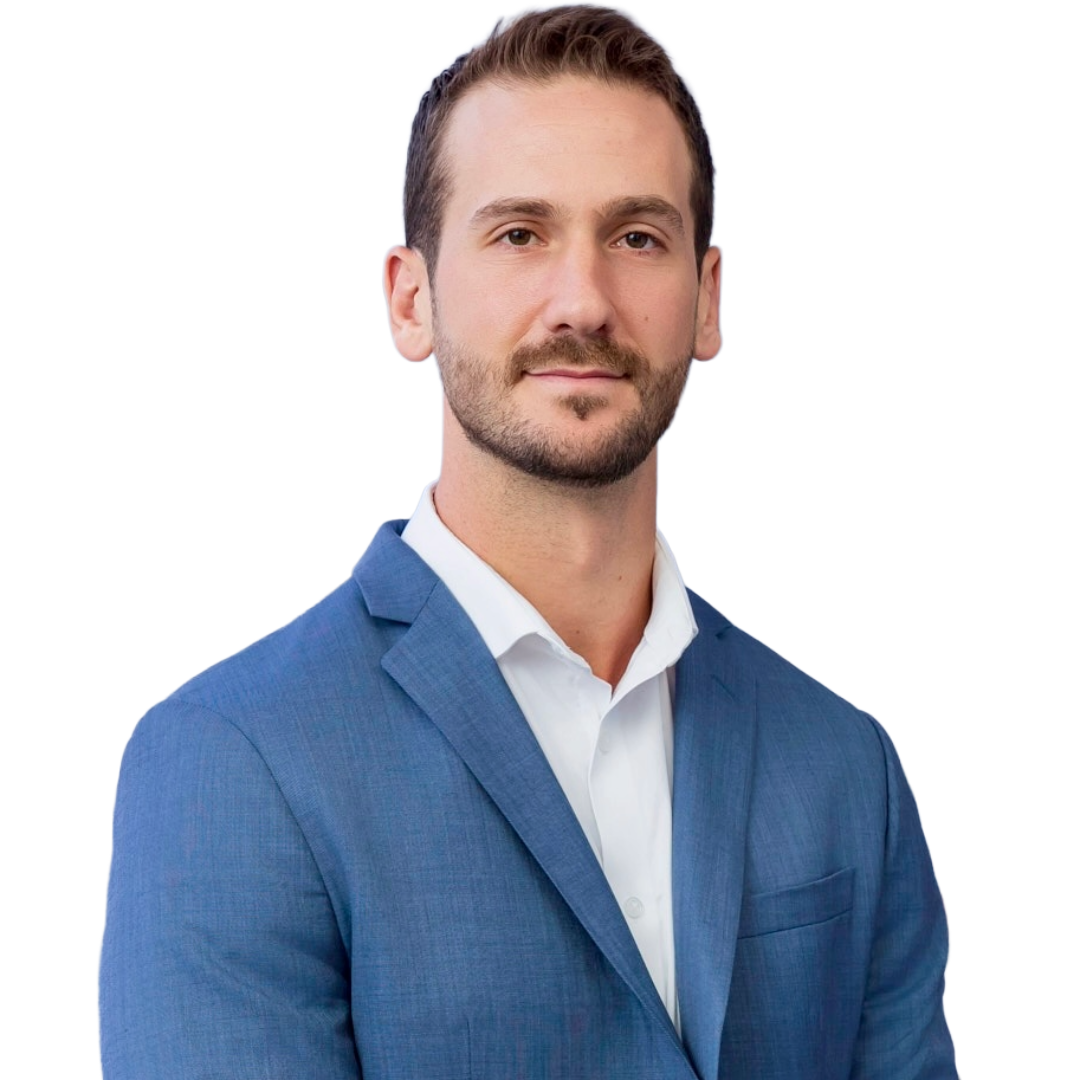
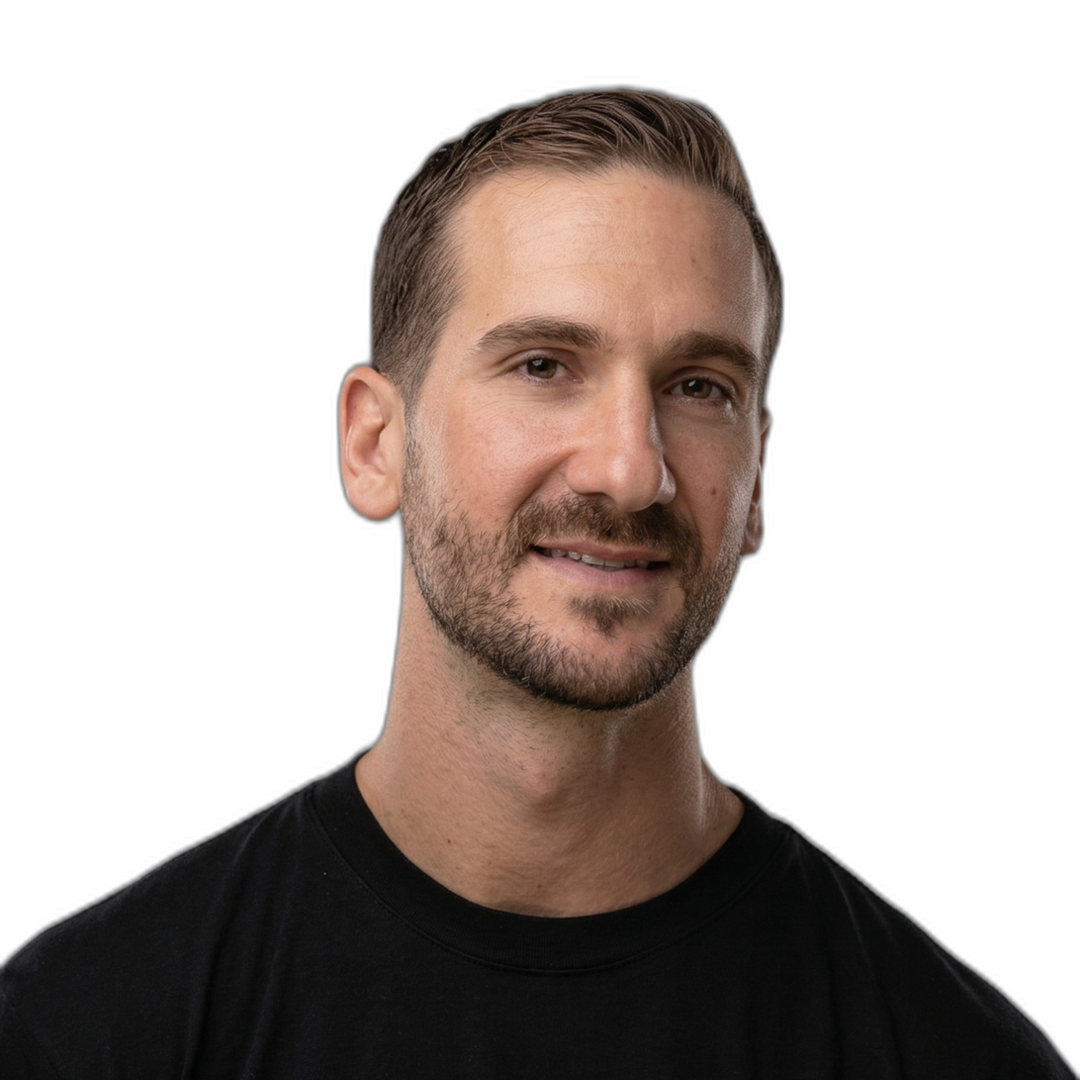
Update headshot, widen photo card, bump section label sizes
- Replace headshot with new photo (watermark removed, shoulders visible)
- Widen headshot column from 320px to 400px
- Bump all section label headings from text-xs to text-sm
- Rebuild Tailwind CSS

diff --git a/assets/css/style.css b/assets/css/style.css
@@ -1,1 +1,1 @@
-*,:after,:before{--tw-border-spacing-x:0;--tw-border-spacing-y:0;--tw-translate-x:0;--tw-translate-y:0;--tw-rotate:0;--tw-skew-x:0;--tw-skew-y:0;--tw-scale-x:1;--tw-scale-y:1;--tw-pan-x: ;--tw-pan-y: ;--tw-pinch-zoom: ;--tw-scroll-snap-strictness:proximity;--tw-gradient-from-position: ;--tw-gradient-via-position: ;--tw-gradient-to-position: ;--tw-ordinal: ;--tw-slashed-zero: ;--tw-numeric-figure: ;--tw-numeric-spacing: ;--tw-numeric-fraction: ;--tw-ring-inset: ;--tw-ring-offset-width:0px;--tw-ring-offset-color:#fff;--tw-ring-color:rgba(59,130,246,.5);--tw-ring-offset-shadow:0 0 #0000;--tw-ring-shadow:0 0 #0000;--tw-shadow:0 0 #0000;--tw-shadow-colored:0 0 #0000;--tw-blur: ;--tw-brightness: ;--tw-contrast: ;--tw-grayscale: ;--tw-hue-rotate: ;--tw-invert: ;--tw-saturate: ;--tw-sepia: ;--tw-drop-shadow: ;--tw-backdrop-blur: ;--tw-backdrop-brightness: ;--tw-backdrop-contrast: ;--tw-backdrop-grayscale: ;--tw-backdrop-hue-rotate: ;--tw-backdrop-invert: ;--tw-backdrop-opacity: ;--tw-backdrop-saturate: ;--tw-backdrop-sepia: ;--tw-contain-size: ;--tw-contain-layout: ;--tw-contain-paint: ;--tw-contain-style: }::backdrop{--tw-border-spacing-x:0;--tw-border-spacing-y:0;--tw-translate-x:0;--tw-translate-y:0;--tw-rotate:0;--tw-skew-x:0;--tw-skew-y:0;--tw-scale-x:1;--tw-scale-y:1;--tw-pan-x: ;--tw-pan-y: ;--tw-pinch-zoom: ;--tw-scroll-snap-strictness:proximity;--tw-gradient-from-position: ;--tw-gradient-via-position: ;--tw-gradient-to-position: ;--tw-ordinal: ;--tw-slashed-zero: ;--tw-numeric-figure: ;--tw-numeric-spacing: ;--tw-numeric-fraction: ;--tw-ring-inset: ;--tw-ring-offset-width:0px;--tw-ring-offset-color:#fff;--tw-ring-color:rgba(59,130,246,.5);--tw-ring-offset-shadow:0 0 #0000;--tw-ring-shadow:0 0 #0000;--tw-shadow:0 0 #0000;--tw-shadow-colored:0 0 #0000;--tw-blur: ;--tw-brightness: ;--tw-contrast: ;--tw-grayscale: ;--tw-hue-rotate: ;--tw-invert: ;--tw-saturate: ;--tw-sepia: ;--tw-drop-shadow: ;--tw-backdrop-blur: ;--tw-backdrop-brightness: ;--tw-backdrop-contrast: ;--tw-backdrop-grayscale: ;--tw-backdrop-hue-rotate: ;--tw-backdrop-invert: ;--tw-backdrop-opacity: ;--tw-backdrop-saturate: ;--tw-backdrop-sepia: ;--tw-contain-size: ;--tw-contain-layout: ;--tw-contain-paint: ;--tw-contain-style: }/*! tailwindcss v3.4.19 | MIT License | https://tailwindcss.com*/*,:after,:before{box-sizing:border-box;border:0 solid #e5e7eb}:after,:before{--tw-content:""}:host,html{line-height:1.5;-webkit-text-size-adjust:100%;-moz-tab-size:4;-o-tab-size:4;tab-size:4;font-family:Inter,system-ui,-apple-system,BlinkMacSystemFont,Segoe UI,sans-serif;font-feature-settings:normal;font-variation-settings:normal;-webkit-tap-highlight-color:transparent}body{margin:0;line-height:inherit}hr{height:0;color:inherit;border-top-width:1px}abbr:where([title]){-webkit-text-decoration:underline dotted;text-decoration:underline dotted}h1,h2,h3,h4,h5,h6{font-size:inherit;font-weight:inherit}a{color:inherit;text-decoration:inherit}b,strong{font-weight:bolder}code,kbd,pre,samp{font-family:ui-monospace,SFMono-Regular,Menlo,Monaco,Consolas,Liberation Mono,Courier New,monospace;font-feature-settings:normal;font-variation-settings:normal;font-size:1em}small{font-size:80%}sub,sup{font-size:75%;line-height:0;position:relative;vertical-align:baseline}sub{bottom:-.25em}sup{top:-.5em}table{text-indent:0;border-color:inherit;border-collapse:collapse}button,input,optgroup,select,textarea{font-family:inherit;font-feature-settings:inherit;font-variation-settings:inherit;font-size:100%;font-weight:inherit;line-height:inherit;letter-spacing:inherit;color:inherit;margin:0;padding:0}button,select{text-transform:none}button,input:where([type=button]),input:where([type=reset]),input:where([type=submit]){-webkit-appearance:button;background-color:transparent;background-image:none}:-moz-focusring{outline:auto}:-moz-ui-invalid{box-shadow:none}progress{vertical-align:baseline}::-webkit-inner-spin-button,::-webkit-outer-spin-button{height:auto}[type=search]{-webkit-appearance:textfield;outline-offset:-2px}::-webkit-search-decoration{-webkit-appearance:none}::-webkit-file-upload-button{-webkit-appearance:button;font:inherit}summary{display:list-item}blockquote,dd,dl,figure,h1,h2,h3,h4,h5,h6,hr,p,pre{margin:0}fieldset{margin:0}fieldset,legend{padding:0}menu,ol,ul{list-style:none;margin:0;padding:0}dialog{padding:0}textarea{resize:vertical}input::-moz-placeholder,textarea::-moz-placeholder{opacity:1;color:#9ca3af}input::placeholder,textarea::placeholder{opacity:1;color:#9ca3af}[role=button],button{cursor:pointer}:disabled{cursor:default}audio,canvas,embed,iframe,img,object,svg,video{display:block;vertical-align:middle}img,video{max-width:100%;height:auto}[hidden]:where(:not([hidden=until-found])){display:none}summary{list-style:none}summary::-webkit-details-marker{display:none}body{background-color:#f5f1eb;background-image:radial-gradient(circle,rgba(0,0,0,.028) 1px,transparent 0);background-size:20px 20px}@property --enso-angle{syntax:"<angle>";inherits:false;initial-value:0deg}@keyframes enso-sweep{0%{--enso-angle:0deg}to{--enso-angle:315deg}}.enso-img{-webkit-mask-image:linear-gradient(to bottom,#000 55%,transparent 92%),conic-gradient(from 225deg,#000 var(--enso-angle),transparent var(--enso-angle));mask-image:linear-gradient(to bottom,#000 55%,transparent 92%),conic-gradient(from 225deg,#000 var(--enso-angle),transparent var(--enso-angle));-webkit-mask-composite:source-in;mask-composite:intersect;animation:enso-sweep .8s cubic-bezier(.4,0,.2,1) .1s both;mix-blend-mode:multiply}@media (prefers-reduced-motion:reduce){.enso-img{animation:none;--enso-angle:315deg}}.pointer-events-none{pointer-events:none}.absolute{position:absolute}.relative{position:relative}.right-0{right:0}.top-\[38\%\]{top:38%}.-mx-6{margin-left:-1.5rem;margin-right:-1.5rem}.mx-auto{margin-left:auto;margin-right:auto}.mb-1{margin-bottom:.25rem}.mb-10{margin-bottom:2.5rem}.mb-2{margin-bottom:.5rem}.mb-4{margin-bottom:1rem}.mb-5{margin-bottom:1.25rem}.mb-6{margin-bottom:1.5rem}.ml-0\.5{margin-left:.125rem}.mt-0\.5{margin-top:.125rem}.mt-1{margin-top:.25rem}.mt-3{margin-top:.75rem}.mt-6{margin-top:1.5rem}.block{display:block}.inline-block{display:inline-block}.flex{display:flex}.inline-flex{display:inline-flex}.grid{display:grid}.h-56{height:14rem}.h-64{height:16rem}.h-full{height:100%}.h-px{height:1px}.min-h-\[260px\]{min-height:260px}.min-h-screen{min-height:100vh}.w-56{width:14rem}.w-6{width:1.5rem}.w-full{width:100%}.max-w-5xl{max-width:64rem}.max-w-md{max-width:28rem}.flex-1{flex:1 1 0%}.flex-shrink-0{flex-shrink:0}.-translate-y-1\/2{--tw-translate-y:-50%;transform:translate(var(--tw-translate-x),var(--tw-translate-y)) rotate(var(--tw-rotate)) skewX(var(--tw-skew-x)) skewY(var(--tw-skew-y)) scaleX(var(--tw-scale-x)) scaleY(var(--tw-scale-y))}.cursor-pointer{cursor:pointer}.grid-cols-1{grid-template-columns:repeat(1,minmax(0,1fr))}.flex-col{flex-direction:column}.items-start{align-items:flex-start}.items-center{align-items:center}.justify-center{justify-content:center}.justify-between{justify-content:space-between}.gap-1{gap:.25rem}.gap-2{gap:.5rem}.gap-3{gap:.75rem}.gap-4{gap:1rem}.space-y-2>:not([hidden])~:not([hidden]){--tw-space-y-reverse:0;margin-top:calc(.5rem*(1 - var(--tw-space-y-reverse)));margin-bottom:calc(.5rem*var(--tw-space-y-reverse))}.overflow-hidden{overflow:hidden}.border{border-width:1px}.border-l-2{border-left-width:2px}.border-l-4{border-left-width:4px}.border-t{border-top-width:1px}.border-\[\#8C5637\]{--tw-border-opacity:1;border-color:rgb(140 86 55/var(--tw-border-opacity,1))}.border-\[\#8C5637\]\/25{border-color:rgba(140,86,55,.25)}.border-black{--tw-border-opacity:1;border-color:rgb(0 0 0/var(--tw-border-opacity,1))}.border-gray-200{--tw-border-opacity:1;border-color:rgb(229 231 235/var(--tw-border-opacity,1))}.border-gray-400{--tw-border-opacity:1;border-color:rgb(156 163 175/var(--tw-border-opacity,1))}.border-l-\[\#8C5637\]{--tw-border-opacity:1;border-left-color:rgb(140 86 55/var(--tw-border-opacity,1))}.bg-\[\#6B4127\]{--tw-bg-opacity:1;background-color:rgb(107 65 39/var(--tw-bg-opacity,1))}.bg-\[\#8C5637\]{--tw-bg-opacity:1;background-color:rgb(140 86 55/var(--tw-bg-opacity,1))}.bg-\[\#8C5637\]\/10{background-color:rgba(140,86,55,.1)}.bg-\[\#E8E0D2\]{--tw-bg-opacity:1;background-color:rgb(232 224 210/var(--tw-bg-opacity,1))}.bg-\[\#F5F1EB\]{--tw-bg-opacity:1;background-color:rgb(245 241 235/var(--tw-bg-opacity,1))}.bg-white{--tw-bg-opacity:1;background-color:rgb(255 255 255/var(--tw-bg-opacity,1))}.object-cover{-o-object-fit:cover;object-fit:cover}.object-top{-o-object-position:top;object-position:top}.p-4{padding:1rem}.p-6{padding:1.5rem}.p-8{padding:2rem}.px-2{padding-left:.5rem;padding-right:.5rem}.px-5{padding-left:1.25rem;padding-right:1.25rem}.px-6{padding-left:1.5rem;padding-right:1.5rem}.px-8{padding-left:2rem;padding-right:2rem}.py-1{padding-top:.25rem;padding-bottom:.25rem}.py-3{padding-top:.75rem;padding-bottom:.75rem}.py-5{padding-top:1.25rem;padding-bottom:1.25rem}.pb-3\.5{padding-bottom:.875rem}.pb-4{padding-bottom:1rem}.pl-3{padding-left:.75rem}.pl-4{padding-left:1rem}.pt-3\.5{padding-top:.875rem}.pt-4{padding-top:1rem}.font-sans{font-family:Inter,system-ui,-apple-system,BlinkMacSystemFont,Segoe UI,sans-serif}.text-2xl{font-size:1.5rem;line-height:2rem}.text-\[0\.72em\]{font-size:.72em}.text-base{font-size:1rem;line-height:1.5rem}.text-sm{font-size:.875rem;line-height:1.25rem}.text-xs{font-size:.75rem;line-height:1rem}.font-black{font-weight:900}.font-bold{font-weight:700}.font-medium{font-weight:500}.font-semibold{font-weight:600}.uppercase{text-transform:uppercase}.italic{font-style:italic}.leading-none{line-height:1}.leading-snug{line-height:1.375}.leading-tight{line-height:1.25}.tracking-tight{letter-spacing:-.025em}.tracking-wide{letter-spacing:.025em}.text-\[\#8C5637\]{--tw-text-opacity:1;color:rgb(140 86 55/var(--tw-text-opacity,1))}.text-\[\#8C5637\]\/60{color:rgba(140,86,55,.6)}.text-black{--tw-text-opacity:1;color:rgb(0 0 0/var(--tw-text-opacity,1))}.text-gray-400{--tw-text-opacity:1;color:rgb(156 163 175/var(--tw-text-opacity,1))}.text-gray-500{--tw-text-opacity:1;color:rgb(107 114 128/var(--tw-text-opacity,1))}.text-gray-600{--tw-text-opacity:1;color:rgb(75 85 99/var(--tw-text-opacity,1))}.text-gray-800{--tw-text-opacity:1;color:rgb(31 41 55/var(--tw-text-opacity,1))}.text-white{--tw-text-opacity:1;color:rgb(255 255 255/var(--tw-text-opacity,1))}.text-white\/60{color:hsla(0,0%,100%,.6)}.text-white\/70{color:hsla(0,0%,100%,.7)}.text-white\/80{color:hsla(0,0%,100%,.8)}.antialiased{-webkit-font-smoothing:antialiased;-moz-osx-font-smoothing:grayscale}.opacity-40{opacity:.4}.shadow-\[0_2px_0_0_rgba\(140\2c 86\2c 55\2c 0\.25\)\]{--tw-shadow:0 2px 0 0 rgba(140,86,55,.25);--tw-shadow-colored:0 2px 0 0 var(--tw-shadow-color);box-shadow:var(--tw-ring-offset-shadow,0 0 #0000),var(--tw-ring-shadow,0 0 #0000),var(--tw-shadow)}.transition-all{transition-property:all;transition-timing-function:cubic-bezier(.4,0,.2,1);transition-duration:.15s}.transition-colors{transition-property:color,background-color,border-color,text-decoration-color,fill,stroke;transition-timing-function:cubic-bezier(.4,0,.2,1);transition-duration:.15s}.transition-transform{transition-property:transform;transition-timing-function:cubic-bezier(.4,0,.2,1);transition-duration:.15s}.duration-100{transition-duration:.1s}.duration-150{transition-duration:.15s}.duration-200{transition-duration:.2s}.hero-name{font-size:clamp(2.6rem,6.5vw,5.5rem);line-height:.9;letter-spacing:.04em}.card-surface{box-shadow:0 2px 8px rgba(0,0,0,.04);border:1px solid rgba(0,0,0,.05)}.bg-greywash{background-image:linear-gradient(135deg,#1e2b20,#111a12)}.hover\:translate-y-px:hover{--tw-translate-y:1px;transform:translate(var(--tw-translate-x),var(--tw-translate-y)) rotate(var(--tw-rotate)) skewX(var(--tw-skew-x)) skewY(var(--tw-skew-y)) scaleX(var(--tw-scale-x)) scaleY(var(--tw-scale-y))}.hover\:bg-black:hover{--tw-bg-opacity:1;background-color:rgb(0 0 0/var(--tw-bg-opacity,1))}.hover\:underline:hover{text-decoration-line:underline}.hover\:shadow-none:hover{--tw-shadow:0 0 #0000;--tw-shadow-colored:0 0 #0000;box-shadow:var(--tw-ring-offset-shadow,0 0 #0000),var(--tw-ring-shadow,0 0 #0000),var(--tw-shadow)}.focus-visible\:bg-black:focus-visible{--tw-bg-opacity:1;background-color:rgb(0 0 0/var(--tw-bg-opacity,1))}.focus-visible\:outline-none:focus-visible{outline:2px solid transparent;outline-offset:2px}.active\:opacity-75:active{opacity:.75}.group[open] .group-open\:rotate-90{--tw-rotate:90deg}.group:hover .group-hover\:translate-x-1,.group[open] .group-open\:rotate-90{transform:translate(var(--tw-translate-x),var(--tw-translate-y)) rotate(var(--tw-rotate)) skewX(var(--tw-skew-x)) skewY(var(--tw-skew-y)) scaleX(var(--tw-scale-x)) scaleY(var(--tw-scale-y))}.group:hover .group-hover\:translate-x-1{--tw-translate-x:0.25rem}.group:hover .group-hover\:text-white{--tw-text-opacity:1;color:rgb(255 255 255/var(--tw-text-opacity,1))}.group:hover .group-hover\:text-white\/50{color:hsla(0,0%,100%,.5)}@media (min-width:640px){.sm\:grid-cols-2{grid-template-columns:repeat(2,minmax(0,1fr))}}@media (min-width:1024px){.lg\:-mx-8{margin-left:-2rem;margin-right:-2rem}.lg\:h-72{height:18rem}.lg\:h-auto{height:auto}.lg\:min-h-0{min-height:0}.lg\:w-72{width:18rem}.lg\:grid-cols-\[1fr_300px\]{grid-template-columns:1fr 300px}.lg\:grid-cols-\[2fr_3fr\]{grid-template-columns:2fr 3fr}.lg\:grid-cols-\[320px_1fr\]{grid-template-columns:320px 1fr}.lg\:p-10{padding:2.5rem}.lg\:p-12{padding:3rem}.lg\:p-6{padding:1.5rem}.lg\:p-8{padding:2rem}.lg\:px-8{padding-left:2rem;padding-right:2rem}.lg\:text-3xl{font-size:1.875rem;line-height:2.25rem}.lg\:text-lg{font-size:1.125rem;line-height:1.75rem}}
+*,:after,:before{--tw-border-spacing-x:0;--tw-border-spacing-y:0;--tw-translate-x:0;--tw-translate-y:0;--tw-rotate:0;--tw-skew-x:0;--tw-skew-y:0;--tw-scale-x:1;--tw-scale-y:1;--tw-pan-x: ;--tw-pan-y: ;--tw-pinch-zoom: ;--tw-scroll-snap-strictness:proximity;--tw-gradient-from-position: ;--tw-gradient-via-position: ;--tw-gradient-to-position: ;--tw-ordinal: ;--tw-slashed-zero: ;--tw-numeric-figure: ;--tw-numeric-spacing: ;--tw-numeric-fraction: ;--tw-ring-inset: ;--tw-ring-offset-width:0px;--tw-ring-offset-color:#fff;--tw-ring-color:rgba(59,130,246,.5);--tw-ring-offset-shadow:0 0 #0000;--tw-ring-shadow:0 0 #0000;--tw-shadow:0 0 #0000;--tw-shadow-colored:0 0 #0000;--tw-blur: ;--tw-brightness: ;--tw-contrast: ;--tw-grayscale: ;--tw-hue-rotate: ;--tw-invert: ;--tw-saturate: ;--tw-sepia: ;--tw-drop-shadow: ;--tw-backdrop-blur: ;--tw-backdrop-brightness: ;--tw-backdrop-contrast: ;--tw-backdrop-grayscale: ;--tw-backdrop-hue-rotate: ;--tw-backdrop-invert: ;--tw-backdrop-opacity: ;--tw-backdrop-saturate: ;--tw-backdrop-sepia: ;--tw-contain-size: ;--tw-contain-layout: ;--tw-contain-paint: ;--tw-contain-style: }::backdrop{--tw-border-spacing-x:0;--tw-border-spacing-y:0;--tw-translate-x:0;--tw-translate-y:0;--tw-rotate:0;--tw-skew-x:0;--tw-skew-y:0;--tw-scale-x:1;--tw-scale-y:1;--tw-pan-x: ;--tw-pan-y: ;--tw-pinch-zoom: ;--tw-scroll-snap-strictness:proximity;--tw-gradient-from-position: ;--tw-gradient-via-position: ;--tw-gradient-to-position: ;--tw-ordinal: ;--tw-slashed-zero: ;--tw-numeric-figure: ;--tw-numeric-spacing: ;--tw-numeric-fraction: ;--tw-ring-inset: ;--tw-ring-offset-width:0px;--tw-ring-offset-color:#fff;--tw-ring-color:rgba(59,130,246,.5);--tw-ring-offset-shadow:0 0 #0000;--tw-ring-shadow:0 0 #0000;--tw-shadow:0 0 #0000;--tw-shadow-colored:0 0 #0000;--tw-blur: ;--tw-brightness: ;--tw-contrast: ;--tw-grayscale: ;--tw-hue-rotate: ;--tw-invert: ;--tw-saturate: ;--tw-sepia: ;--tw-drop-shadow: ;--tw-backdrop-blur: ;--tw-backdrop-brightness: ;--tw-backdrop-contrast: ;--tw-backdrop-grayscale: ;--tw-backdrop-hue-rotate: ;--tw-backdrop-invert: ;--tw-backdrop-opacity: ;--tw-backdrop-saturate: ;--tw-backdrop-sepia: ;--tw-contain-size: ;--tw-contain-layout: ;--tw-contain-paint: ;--tw-contain-style: }/*! tailwindcss v3.4.19 | MIT License | https://tailwindcss.com*/*,:after,:before{box-sizing:border-box;border:0 solid #e5e7eb}:after,:before{--tw-content:""}:host,html{line-height:1.5;-webkit-text-size-adjust:100%;-moz-tab-size:4;-o-tab-size:4;tab-size:4;font-family:Inter,system-ui,-apple-system,BlinkMacSystemFont,Segoe UI,sans-serif;font-feature-settings:normal;font-variation-settings:normal;-webkit-tap-highlight-color:transparent}body{margin:0;line-height:inherit}hr{height:0;color:inherit;border-top-width:1px}abbr:where([title]){-webkit-text-decoration:underline dotted;text-decoration:underline dotted}h1,h2,h3,h4,h5,h6{font-size:inherit;font-weight:inherit}a{color:inherit;text-decoration:inherit}b,strong{font-weight:bolder}code,kbd,pre,samp{font-family:ui-monospace,SFMono-Regular,Menlo,Monaco,Consolas,Liberation Mono,Courier New,monospace;font-feature-settings:normal;font-variation-settings:normal;font-size:1em}small{font-size:80%}sub,sup{font-size:75%;line-height:0;position:relative;vertical-align:baseline}sub{bottom:-.25em}sup{top:-.5em}table{text-indent:0;border-color:inherit;border-collapse:collapse}button,input,optgroup,select,textarea{font-family:inherit;font-feature-settings:inherit;font-variation-settings:inherit;font-size:100%;font-weight:inherit;line-height:inherit;letter-spacing:inherit;color:inherit;margin:0;padding:0}button,select{text-transform:none}button,input:where([type=button]),input:where([type=reset]),input:where([type=submit]){-webkit-appearance:button;background-color:transparent;background-image:none}:-moz-focusring{outline:auto}:-moz-ui-invalid{box-shadow:none}progress{vertical-align:baseline}::-webkit-inner-spin-button,::-webkit-outer-spin-button{height:auto}[type=search]{-webkit-appearance:textfield;outline-offset:-2px}::-webkit-search-decoration{-webkit-appearance:none}::-webkit-file-upload-button{-webkit-appearance:button;font:inherit}summary{display:list-item}blockquote,dd,dl,figure,h1,h2,h3,h4,h5,h6,hr,p,pre{margin:0}fieldset{margin:0}fieldset,legend{padding:0}menu,ol,ul{list-style:none;margin:0;padding:0}dialog{padding:0}textarea{resize:vertical}input::-moz-placeholder,textarea::-moz-placeholder{opacity:1;color:#9ca3af}input::placeholder,textarea::placeholder{opacity:1;color:#9ca3af}[role=button],button{cursor:pointer}:disabled{cursor:default}audio,canvas,embed,iframe,img,object,svg,video{display:block;vertical-align:middle}img,video{max-width:100%;height:auto}[hidden]:where(:not([hidden=until-found])){display:none}summary{list-style:none}summary::-webkit-details-marker{display:none}body{background-color:#f5f1eb;background-image:radial-gradient(circle,rgba(0,0,0,.028) 1px,transparent 0);background-size:20px 20px}@property --enso-angle{syntax:"<angle>";inherits:false;initial-value:0deg}@keyframes enso-sweep{0%{--enso-angle:0deg}to{--enso-angle:315deg}}.enso-img{-webkit-mask-image:linear-gradient(to bottom,#000 55%,transparent 92%),conic-gradient(from 225deg,#000 var(--enso-angle),transparent var(--enso-angle));mask-image:linear-gradient(to bottom,#000 55%,transparent 92%),conic-gradient(from 225deg,#000 var(--enso-angle),transparent var(--enso-angle));-webkit-mask-composite:source-in;mask-composite:intersect;animation:enso-sweep .8s cubic-bezier(.4,0,.2,1) .1s both;mix-blend-mode:multiply}@media (prefers-reduced-motion:reduce){.enso-img{animation:none;--enso-angle:315deg}}.pointer-events-none{pointer-events:none}.absolute{position:absolute}.relative{position:relative}.right-0{right:0}.top-\[38\%\]{top:38%}.-mx-6{margin-left:-1.5rem;margin-right:-1.5rem}.mx-auto{margin-left:auto;margin-right:auto}.mb-1{margin-bottom:.25rem}.mb-10{margin-bottom:2.5rem}.mb-2{margin-bottom:.5rem}.mb-4{margin-bottom:1rem}.mb-5{margin-bottom:1.25rem}.mb-6{margin-bottom:1.5rem}.ml-0\.5{margin-left:.125rem}.mt-0\.5{margin-top:.125rem}.mt-1{margin-top:.25rem}.mt-3{margin-top:.75rem}.mt-6{margin-top:1.5rem}.block{display:block}.inline-block{display:inline-block}.flex{display:flex}.inline-flex{display:inline-flex}.grid{display:grid}.h-56{height:14rem}.h-64{height:16rem}.h-full{height:100%}.h-px{height:1px}.min-h-\[260px\]{min-height:260px}.min-h-screen{min-height:100vh}.w-56{width:14rem}.w-6{width:1.5rem}.w-full{width:100%}.max-w-5xl{max-width:64rem}.max-w-md{max-width:28rem}.flex-1{flex:1 1 0%}.flex-shrink-0{flex-shrink:0}.-translate-y-1\/2{--tw-translate-y:-50%;transform:translate(var(--tw-translate-x),var(--tw-translate-y)) rotate(var(--tw-rotate)) skewX(var(--tw-skew-x)) skewY(var(--tw-skew-y)) scaleX(var(--tw-scale-x)) scaleY(var(--tw-scale-y))}.cursor-pointer{cursor:pointer}.grid-cols-1{grid-template-columns:repeat(1,minmax(0,1fr))}.flex-col{flex-direction:column}.items-start{align-items:flex-start}.items-center{align-items:center}.justify-center{justify-content:center}.justify-between{justify-content:space-between}.gap-1{gap:.25rem}.gap-2{gap:.5rem}.gap-3{gap:.75rem}.gap-4{gap:1rem}.space-y-2>:not([hidden])~:not([hidden]){--tw-space-y-reverse:0;margin-top:calc(.5rem*(1 - var(--tw-space-y-reverse)));margin-bottom:calc(.5rem*var(--tw-space-y-reverse))}.overflow-hidden{overflow:hidden}.border{border-width:1px}.border-l-2{border-left-width:2px}.border-l-4{border-left-width:4px}.border-t{border-top-width:1px}.border-\[\#8C5637\]{--tw-border-opacity:1;border-color:rgb(140 86 55/var(--tw-border-opacity,1))}.border-\[\#8C5637\]\/25{border-color:rgba(140,86,55,.25)}.border-black{--tw-border-opacity:1;border-color:rgb(0 0 0/var(--tw-border-opacity,1))}.border-gray-200{--tw-border-opacity:1;border-color:rgb(229 231 235/var(--tw-border-opacity,1))}.border-gray-400{--tw-border-opacity:1;border-color:rgb(156 163 175/var(--tw-border-opacity,1))}.border-l-\[\#8C5637\]{--tw-border-opacity:1;border-left-color:rgb(140 86 55/var(--tw-border-opacity,1))}.bg-\[\#6B4127\]{--tw-bg-opacity:1;background-color:rgb(107 65 39/var(--tw-bg-opacity,1))}.bg-\[\#8C5637\]{--tw-bg-opacity:1;background-color:rgb(140 86 55/var(--tw-bg-opacity,1))}.bg-\[\#8C5637\]\/10{background-color:rgba(140,86,55,.1)}.bg-\[\#E8E0D2\]{--tw-bg-opacity:1;background-color:rgb(232 224 210/var(--tw-bg-opacity,1))}.bg-\[\#F5F1EB\]{--tw-bg-opacity:1;background-color:rgb(245 241 235/var(--tw-bg-opacity,1))}.bg-white{--tw-bg-opacity:1;background-color:rgb(255 255 255/var(--tw-bg-opacity,1))}.object-cover{-o-object-fit:cover;object-fit:cover}.object-top{-o-object-position:top;object-position:top}.p-4{padding:1rem}.p-6{padding:1.5rem}.p-8{padding:2rem}.px-2{padding-left:.5rem;padding-right:.5rem}.px-5{padding-left:1.25rem;padding-right:1.25rem}.px-6{padding-left:1.5rem;padding-right:1.5rem}.px-8{padding-left:2rem;padding-right:2rem}.py-1{padding-top:.25rem;padding-bottom:.25rem}.py-3{padding-top:.75rem;padding-bottom:.75rem}.py-5{padding-top:1.25rem;padding-bottom:1.25rem}.pb-3\.5{padding-bottom:.875rem}.pb-4{padding-bottom:1rem}.pl-3{padding-left:.75rem}.pl-4{padding-left:1rem}.pt-3\.5{padding-top:.875rem}.pt-4{padding-top:1rem}.font-sans{font-family:Inter,system-ui,-apple-system,BlinkMacSystemFont,Segoe UI,sans-serif}.text-2xl{font-size:1.5rem;line-height:2rem}.text-\[0\.72em\]{font-size:.72em}.text-base{font-size:1rem;line-height:1.5rem}.text-sm{font-size:.875rem;line-height:1.25rem}.text-xs{font-size:.75rem;line-height:1rem}.font-black{font-weight:900}.font-bold{font-weight:700}.font-medium{font-weight:500}.font-semibold{font-weight:600}.uppercase{text-transform:uppercase}.italic{font-style:italic}.leading-none{line-height:1}.leading-snug{line-height:1.375}.leading-tight{line-height:1.25}.tracking-tight{letter-spacing:-.025em}.tracking-wide{letter-spacing:.025em}.text-\[\#8C5637\]{--tw-text-opacity:1;color:rgb(140 86 55/var(--tw-text-opacity,1))}.text-\[\#8C5637\]\/60{color:rgba(140,86,55,.6)}.text-black{--tw-text-opacity:1;color:rgb(0 0 0/var(--tw-text-opacity,1))}.text-gray-400{--tw-text-opacity:1;color:rgb(156 163 175/var(--tw-text-opacity,1))}.text-gray-500{--tw-text-opacity:1;color:rgb(107 114 128/var(--tw-text-opacity,1))}.text-gray-600{--tw-text-opacity:1;color:rgb(75 85 99/var(--tw-text-opacity,1))}.text-gray-800{--tw-text-opacity:1;color:rgb(31 41 55/var(--tw-text-opacity,1))}.text-white{--tw-text-opacity:1;color:rgb(255 255 255/var(--tw-text-opacity,1))}.text-white\/60{color:hsla(0,0%,100%,.6)}.text-white\/70{color:hsla(0,0%,100%,.7)}.text-white\/80{color:hsla(0,0%,100%,.8)}.antialiased{-webkit-font-smoothing:antialiased;-moz-osx-font-smoothing:grayscale}.opacity-40{opacity:.4}.shadow-\[0_2px_0_0_rgba\(140\2c 86\2c 55\2c 0\.25\)\]{--tw-shadow:0 2px 0 0 rgba(140,86,55,.25);--tw-shadow-colored:0 2px 0 0 var(--tw-shadow-color);box-shadow:var(--tw-ring-offset-shadow,0 0 #0000),var(--tw-ring-shadow,0 0 #0000),var(--tw-shadow)}.transition-all{transition-property:all;transition-timing-function:cubic-bezier(.4,0,.2,1);transition-duration:.15s}.transition-colors{transition-property:color,background-color,border-color,text-decoration-color,fill,stroke;transition-timing-function:cubic-bezier(.4,0,.2,1);transition-duration:.15s}.transition-transform{transition-property:transform;transition-timing-function:cubic-bezier(.4,0,.2,1);transition-duration:.15s}.duration-100{transition-duration:.1s}.duration-150{transition-duration:.15s}.duration-200{transition-duration:.2s}.hero-name{font-size:clamp(2.6rem,6.5vw,5.5rem);line-height:.9;letter-spacing:.04em}.card-surface{box-shadow:0 2px 8px rgba(0,0,0,.04);border:1px solid rgba(0,0,0,.05)}.bg-greywash{background-image:linear-gradient(135deg,#1e2b20,#111a12)}.hover\:translate-y-px:hover{--tw-translate-y:1px;transform:translate(var(--tw-translate-x),var(--tw-translate-y)) rotate(var(--tw-rotate)) skewX(var(--tw-skew-x)) skewY(var(--tw-skew-y)) scaleX(var(--tw-scale-x)) scaleY(var(--tw-scale-y))}.hover\:bg-black:hover{--tw-bg-opacity:1;background-color:rgb(0 0 0/var(--tw-bg-opacity,1))}.hover\:underline:hover{text-decoration-line:underline}.hover\:shadow-none:hover{--tw-shadow:0 0 #0000;--tw-shadow-colored:0 0 #0000;box-shadow:var(--tw-ring-offset-shadow,0 0 #0000),var(--tw-ring-shadow,0 0 #0000),var(--tw-shadow)}.focus-visible\:bg-black:focus-visible{--tw-bg-opacity:1;background-color:rgb(0 0 0/var(--tw-bg-opacity,1))}.focus-visible\:outline-none:focus-visible{outline:2px solid transparent;outline-offset:2px}.active\:opacity-75:active{opacity:.75}.group[open] .group-open\:rotate-90{--tw-rotate:90deg}.group:hover .group-hover\:translate-x-1,.group[open] .group-open\:rotate-90{transform:translate(var(--tw-translate-x),var(--tw-translate-y)) rotate(var(--tw-rotate)) skewX(var(--tw-skew-x)) skewY(var(--tw-skew-y)) scaleX(var(--tw-scale-x)) scaleY(var(--tw-scale-y))}.group:hover .group-hover\:translate-x-1{--tw-translate-x:0.25rem}.group:hover .group-hover\:text-white{--tw-text-opacity:1;color:rgb(255 255 255/var(--tw-text-opacity,1))}.group:hover .group-hover\:text-white\/50{color:hsla(0,0%,100%,.5)}@media (min-width:640px){.sm\:grid-cols-2{grid-template-columns:repeat(2,minmax(0,1fr))}}@media (min-width:1024px){.lg\:-mx-8{margin-left:-2rem;margin-right:-2rem}.lg\:h-72{height:18rem}.lg\:h-auto{height:auto}.lg\:min-h-0{min-height:0}.lg\:w-72{width:18rem}.lg\:grid-cols-\[1fr_300px\]{grid-template-columns:1fr 300px}.lg\:grid-cols-\[2fr_3fr\]{grid-template-columns:2fr 3fr}.lg\:grid-cols-\[400px_1fr\]{grid-template-columns:400px 1fr}.lg\:p-10{padding:2.5rem}.lg\:p-12{padding:3rem}.lg\:p-6{padding:1.5rem}.lg\:p-8{padding:2rem}.lg\:px-8{padding-left:2rem;padding-right:2rem}.lg\:text-3xl{font-size:1.875rem;line-height:2.25rem}.lg\:text-lg{font-size:1.125rem;line-height:1.75rem}}

diff --git a/index.html b/index.html
@@ -39,7 +39,7 @@
     <!-- ═══════════════════════════════════════════════════════════
          HERO ROW — headshot card + name/bio card
     ════════════════════════════════════════════════════════════ -->
-    <div class="grid grid-cols-1 lg:grid-cols-[320px_1fr] gap-4">
+    <div class="grid grid-cols-1 lg:grid-cols-[400px_1fr] gap-4">
 
       <!-- Headshot card -->
       <div class="bg-white card-surface overflow-hidden h-64 lg:h-auto">
@@ -58,7 +58,7 @@
              class="enso-img absolute right-0 top-[38%] -translate-y-1/2 w-56 h-56 lg:w-72 lg:h-72 opacity-40 pointer-events-none"
              alt="" aria-hidden="true">
         <div>
-          <span class="text-xs font-semibold tracking-wide uppercase text-[#8C5637] block mb-10">
+          <span class="text-sm font-semibold tracking-wide uppercase text-[#8C5637] block mb-10">
             Doctoral Candidate · Clinical Psychology
           </span>
           <h1 class="hero-name font-black uppercase text-black">
@@ -85,7 +85,7 @@
       <!-- Dissertation card — kintsugi texture + rust left accent -->
       <article class="bg-white card-surface p-8 lg:p-10 border-l-4 border-l-[#8C5637]"
         aria-labelledby="dissertation-heading">
-        <span class="text-xs font-semibold tracking-wide uppercase text-[#8C5637] block mb-4">
+        <span class="text-sm font-semibold tracking-wide uppercase text-[#8C5637] block mb-4">
           Dissertation:
         </span>
         <h2 id="dissertation-heading"
@@ -169,7 +169,7 @@
 
       <!-- Primary Interests card — expandable via <details>/<summary> -->
       <section class="bg-white card-surface p-8 lg:p-10" aria-labelledby="interests-heading">
-        <h3 id="interests-heading" class="text-xs font-semibold tracking-wide uppercase text-[#8C5637] mb-5">
+        <h3 id="interests-heading" class="text-sm font-semibold tracking-wide uppercase text-[#8C5637] mb-5">
           Primary Interests
         </h3>
 
@@ -210,7 +210,7 @@
 
       <!-- Collaborators card -->
       <section class="bg-white card-surface p-8 lg:p-10 flex flex-col" aria-labelledby="collaborators-heading">
-        <h3 id="collaborators-heading" class="text-xs font-semibold tracking-wide uppercase text-[#8C5637] mb-5">
+        <h3 id="collaborators-heading" class="text-sm font-semibold tracking-wide uppercase text-[#8C5637] mb-5">
           Collaborators
         </h3>
         <ul>
@@ -239,7 +239,7 @@
 
       <!-- Education card -->
       <section class="bg-white card-surface p-6 lg:p-8" aria-labelledby="education-heading">
-        <h3 id="education-heading" class="text-xs font-semibold tracking-wide uppercase text-[#8C5637] mb-4">
+        <h3 id="education-heading" class="text-sm font-semibold tracking-wide uppercase text-[#8C5637] mb-4">
           Education
         </h3>
         <ul>
@@ -281,7 +281,7 @@
 
       <!-- Clinical Training card -->
       <section class="bg-white card-surface p-6 lg:p-8" aria-labelledby="training-heading">
-        <h3 id="training-heading" class="text-xs font-semibold tracking-wide uppercase text-[#8C5637] mb-4">
+        <h3 id="training-heading" class="text-sm font-semibold tracking-wide uppercase text-[#8C5637] mb-4">
           Clinical Training
         </h3>
         <ul>
